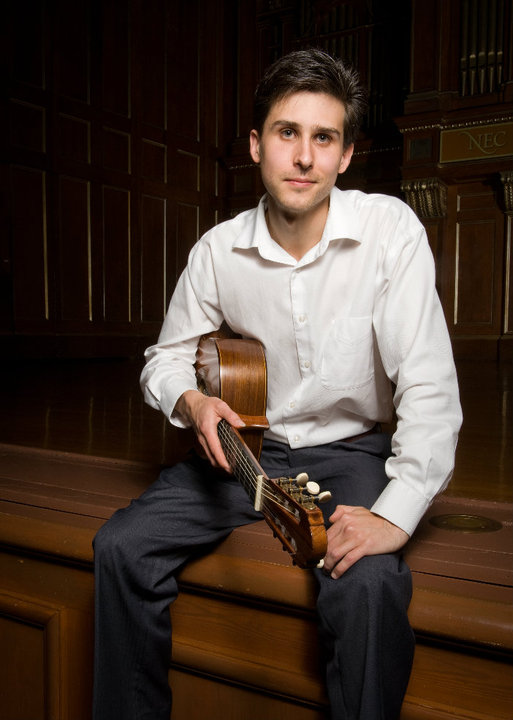
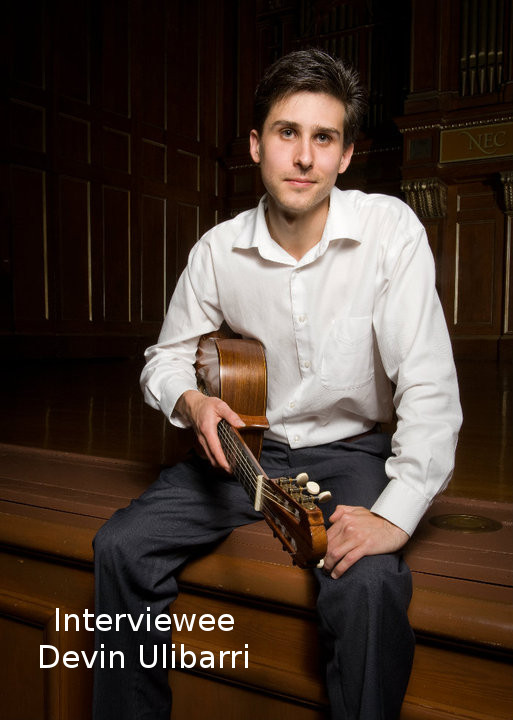
Added and Edited the images

Changed region(s): [[0.0624, 0.825, 0.499, 0.9472]]

diff --git a/Interview/interview.md b/Interview/interview.md
@@ -97,3 +97,11 @@ Daksh, I mentioned this before in the interview, but "free software" does not eq
 I know, deep in my heart, that what I do with both music /and/ with the development and advocacy for free software is valuable and I will help others understand this as well. On the other hand, sometimes work that is very profitable does little to truly benefit society for the long term. This is a true shame.
 
 Music, education, and free software are all worthy of sharing in the wealth of the world. Let's invest in things that are really beneficial to ourselves, our environment, and to society as a whole.
+
+##Credits
+
+Interviewer: Daksh Shah
+Interviewee: [Devin Ulibarri](devinulibarri.com)
+
+##License
+This work is licensed under the [Creative Commons Attribution 4.0 International License](http://creativecommons.org/licenses/by/4.0/)
